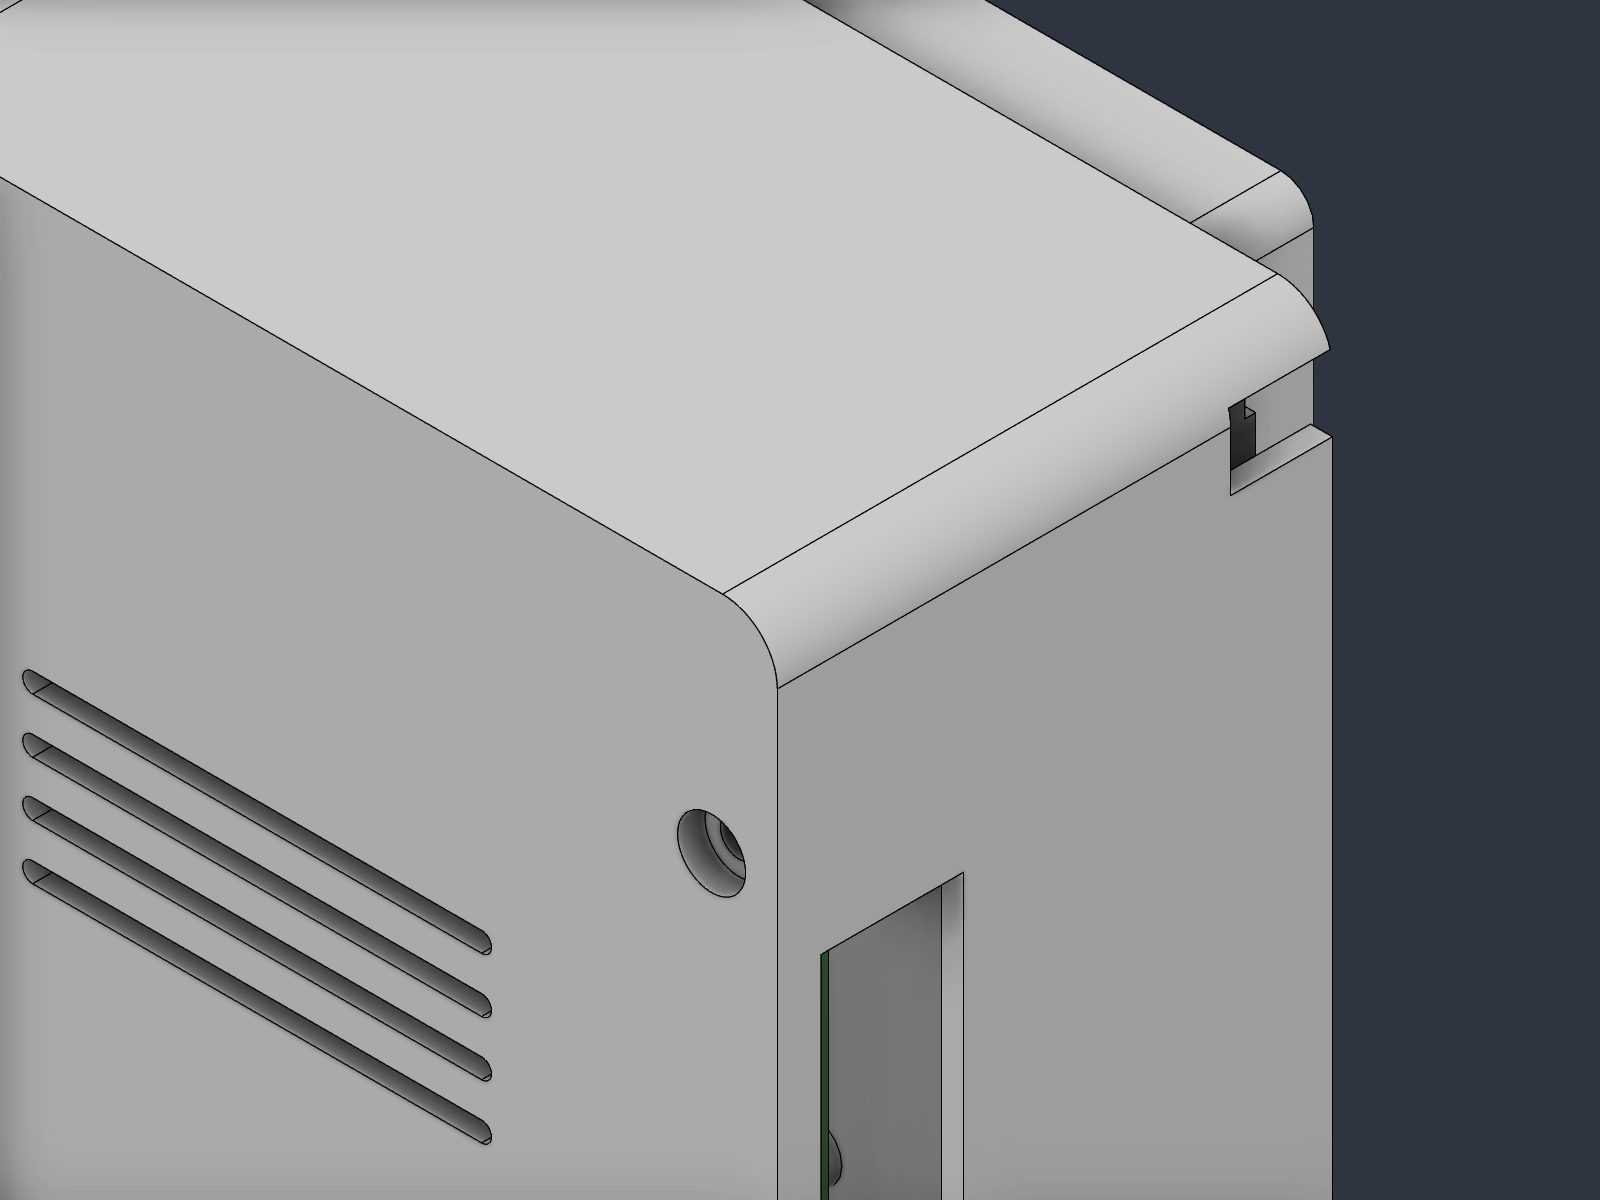
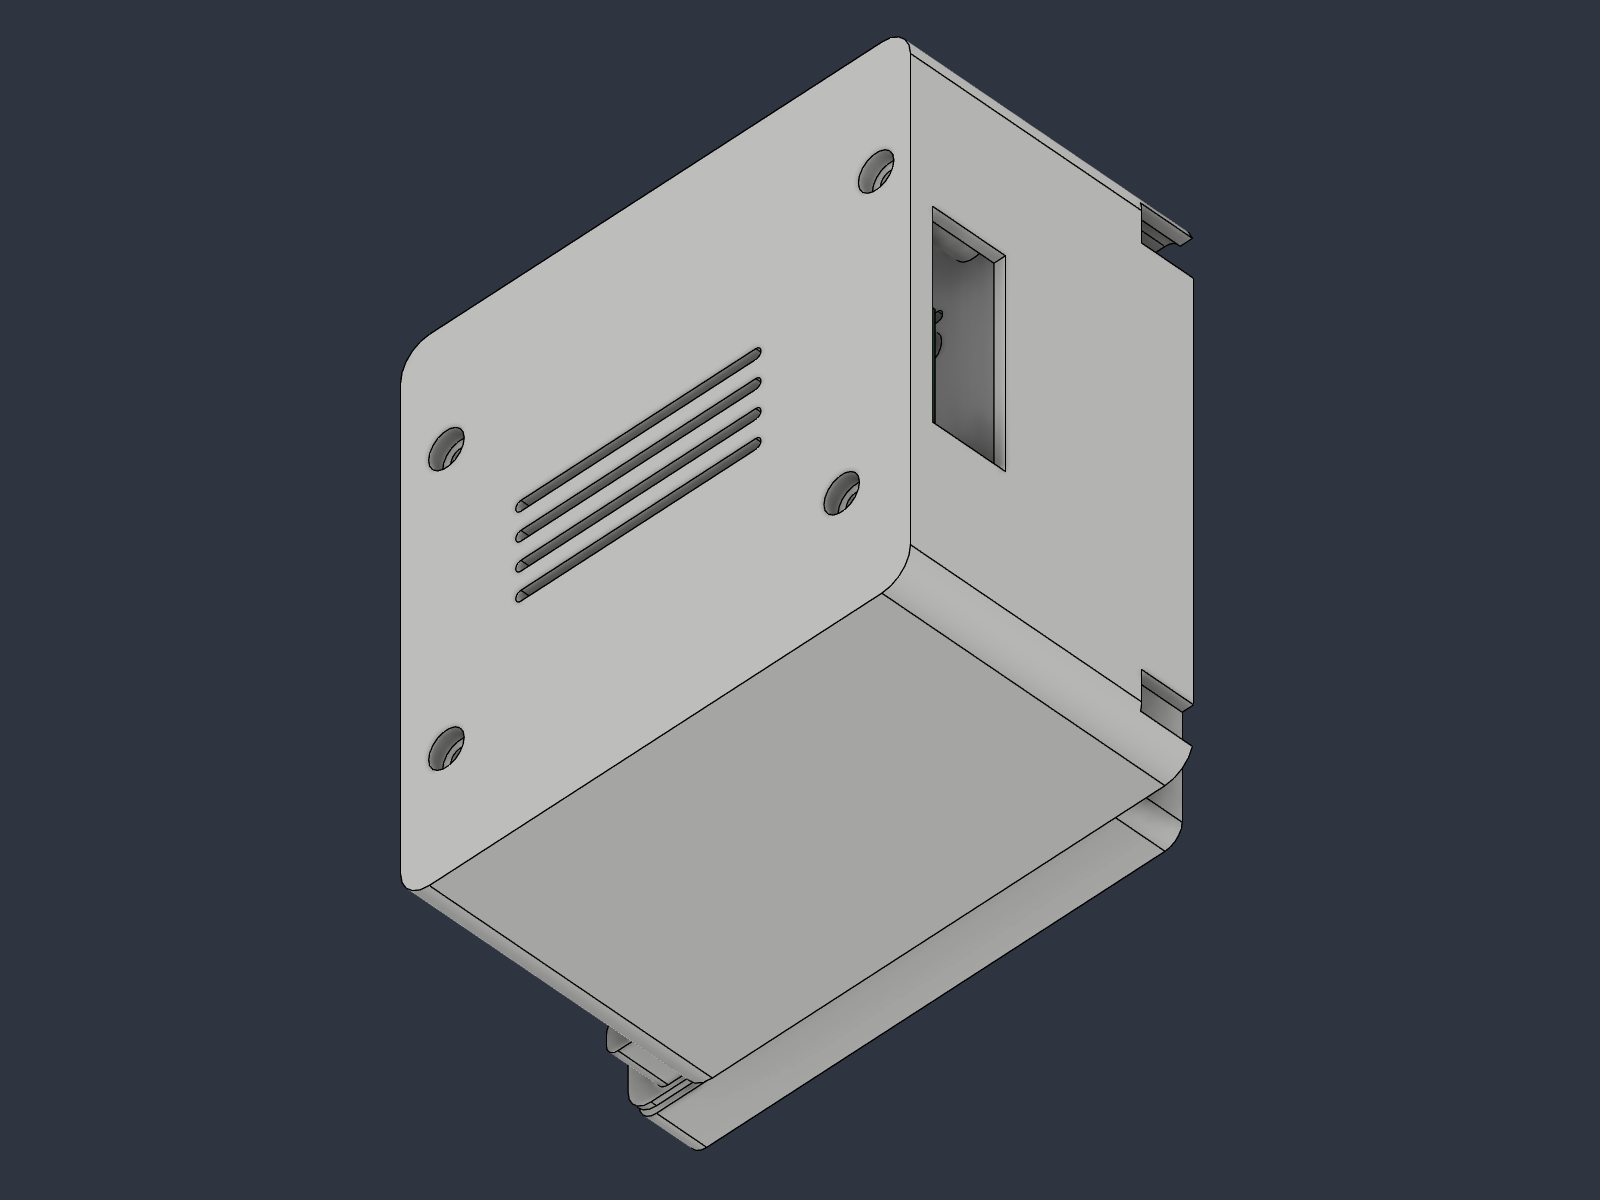
Frame the full enclosed assembly in saved Fusion previews

diff --git a/cad/verify_export.py b/cad/verify_export.py
@@ -60,15 +60,21 @@ def run(_context: str):
  # Internal overview from left side to expose the shaft and single contact insert.
  for b in r.bRepBodies:
   b.isLightBulbOn=group(b) not in ('optional','keepout') and not b.name.startswith(('06_','07_','REF_Waveshare'))
- cam=app.activeViewport.camera;cam.viewOrientation=adsk.core.ViewOrientations.IsoTopLeftViewOrientation;app.activeViewport.camera=cam;app.activeViewport.fit()
+ cam=app.activeViewport.camera;cam.viewOrientation=adsk.core.ViewOrientations.IsoTopLeftViewOrientation;app.activeViewport.camera=cam;app.activeViewport.refresh();adsk.doEvents();app.activeViewport.fit();app.activeViewport.refresh();adsk.doEvents()
  app.activeViewport.saveAsImageFile(os.path.join(OUT,'assets','fusion-mechanism.png'),1600,1200)
  # Closeup with non-essential structure hidden for explaining the direct drive.
  for b in r.bRepBodies:
   b.isLightBulbOn=group(b) in ('rotor','switch') or b.name.startswith(('REF_STS','REF_servo_output'))
- app.activeViewport.fit();app.activeViewport.saveAsImageFile(os.path.join(OUT,'assets','fusion-direct-drive.png'),1400,1100)
+ app.activeViewport.refresh();adsk.doEvents();app.activeViewport.fit();app.activeViewport.refresh();adsk.doEvents();app.activeViewport.saveAsImageFile(os.path.join(OUT,'assets','fusion-direct-drive.png'),1400,1100)
  # Export neutral assembly, with optional pads and reference component keepout hidden.
  for b in r.bRepBodies:b.isLightBulbOn=group(b) not in ('optional','keepout')
- cam=app.activeViewport.camera;cam.viewOrientation=adsk.core.ViewOrientations.IsoTopRightViewOrientation;app.activeViewport.camera=cam;app.activeViewport.fit()
+ cam=app.activeViewport.camera
+ cam.cameraType=adsk.core.CameraTypes.OrthographicCameraType
+ cam.eye=adsk.core.Point3D.create(18,-22,20)
+ cam.target=adsk.core.Point3D.create(0.65,0,2.2)
+ cam.upVector=adsk.core.Vector3D.create(0,1,0)
+ cam.isSmoothTransition=False;cam.setExtents(20,15)
+ app.activeViewport.camera=cam;app.activeViewport.refresh();adsk.doEvents()
  app.activeViewport.saveAsImageFile(os.path.join(OUT,'assets','fusion-assembly.png'),1600,1200)
  results={}
  results['f3d']=d.exportManager.execute(d.exportManager.createFusionArchiveExportOptions(os.path.join(OUT,'cad','Mechanical_Switch_v02.f3d')))

diff --git a/cad/build_fusion.py b/cad/build_fusion.py
@@ -155,7 +155,13 @@ def run(_context: str):
   part('REF_adhesive_'+str(i+1),box(x0,y0,0,x1,y1,1),'Yellow',False,group='fixed')
  data={'version':'0.2','units':'mm','axis':[1,0,0],'axis_origin_mm':[0,0,AXIS_Z],'horizontal_travel_mm':X_TRAVEL,'nominal_tape_area_mm2':1500,'assumptions':{'rocker_mm':[17,17,6],'servo_shaft_offset_mm':12.35,'pcb_component_height_mm':10.1},'parts':manifest}
  with open(os.path.join(OUT,'validation','build_manifest.json'),'w') as f:json.dump(data,f,indent=2)
- cam=app.activeViewport.camera;cam.viewOrientation=adsk.core.ViewOrientations.IsoTopRightViewOrientation;app.activeViewport.camera=cam;app.activeViewport.fit()
+ cam=app.activeViewport.camera
+ cam.cameraType=adsk.core.CameraTypes.OrthographicCameraType
+ cam.eye=adsk.core.Point3D.create(18,-22,20)
+ cam.target=adsk.core.Point3D.create(0.65,0,2.2)
+ cam.upVector=adsk.core.Vector3D.create(0,1,0)
+ cam.isSmoothTransition=False;cam.setExtents(20,15)
+ app.activeViewport.camera=cam;app.activeViewport.refresh();adsk.doEvents()
  app.activeViewport.saveAsImageFile(os.path.join(OUT,'assets','fusion-assembly.png'),1600,1200)
 
 
